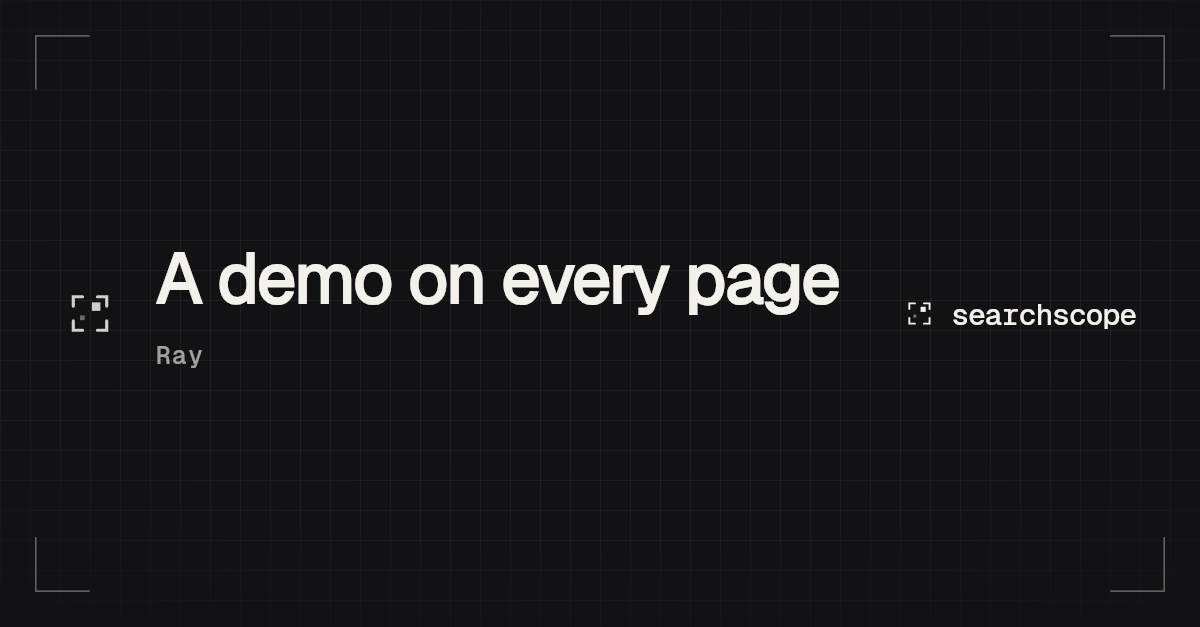
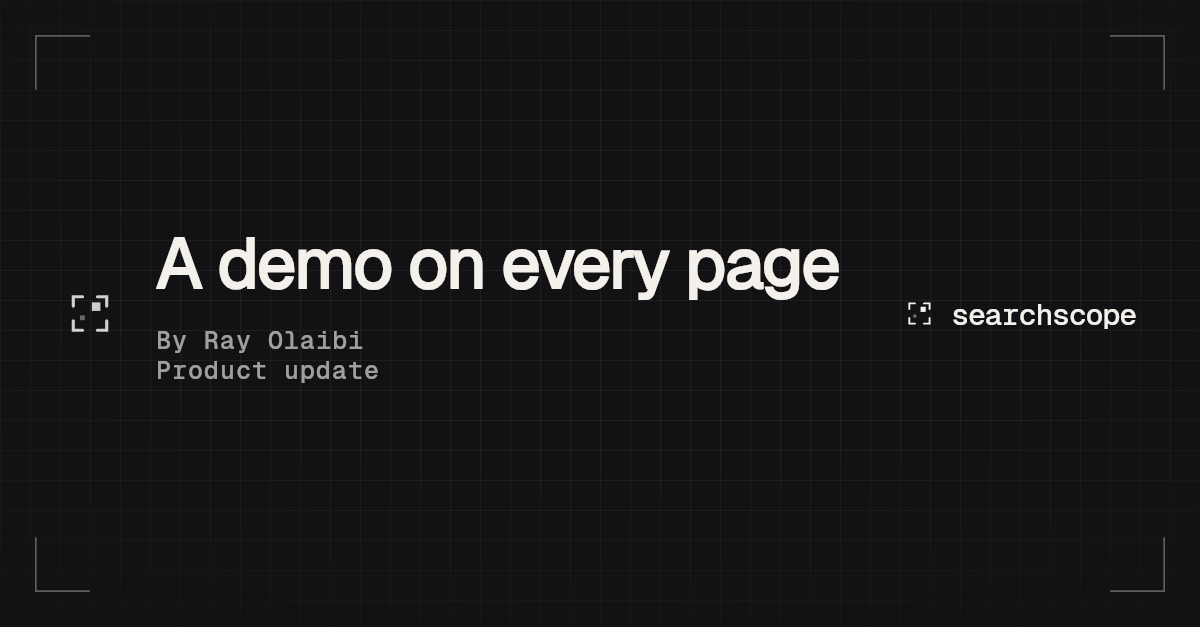
Category breadcrumbs, and link cards that say what the page is
Breadcrumb: the category page was the only blog page using a slash separator
and starting at Blog. Posts and author pages both read Searchscope > Blog > X
with an angle quote. Category pages now match.

Breadcrumb schema: every blog page had a BreadcrumbList that disagreed with
the trail on the page. A post showed Searchscope > Blog > Category and its
schema said Blog > Post Title, skipping the category and the home level. Two
breadcrumbs on one page is a structured-data error and the wrong one is the
one that gets read. crumb_ld now prepends home so no caller can forget it,
and posts emit the category rather than their own title.

Link cards: og-cards.json gains an optional kicker, a second meta line under
the byline, and every Product Updates post carries "Product update". Shared
into Slack these showed a headline and the word "Ray", which says nothing
about what you are about to open. The eight also had a bare "Ray" byline
while the five editorial cards said "By Ray Olaibi"; all nine now match.

Rules for both are in CLAUDE.md, along with the build order: a blog rebuild
resets og tags, so add-og-tags.py always runs after build-blog.py.

Changed region(s): [[0.1233, 0.3636, 0.7092, 0.5152], [0.1233, 0.5152, 0.3392, 0.6061]]

diff --git a/holding/blog/index.html b/holding/blog/index.html
@@ -727,7 +727,7 @@ j=d.createElement(s),dl=l!='dataLayer'?'&l='+l:'';j.async=true;j.src=
 </style>
 <script type="application/ld+json">{"@context":"https://schema.org","@type":"Organization","name":"Searchscope","url":"https://searchscope.io/","description":"The SEO and AI search intelligence platform."}</script>
 <script type="application/ld+json">{"@context":"https://schema.org","@type":"Blog","@id":"https://searchscope.io/blog/","name":"Searchscope Blog","description":"Writing on search systems, algorithm updates, AI search and search data, from the team that builds Searchscope.","url":"https://searchscope.io/blog/","publisher":{"@type":"Organization","name":"Searchscope","url":"https://searchscope.io/"},"blogPost":[{"@type":"BlogPosting","headline":"SEO is now an operating system","url":"https://searchscope.io/blog/seo-is-now-an-operating-system/","datePublished":"2026-06-20","author":{"@type":"Person","name":"Ray"}},{"@type":"BlogPosting","headline":"What AI Overviews change about visibility","url":"https://searchscope.io/blog/what-ai-overviews-change-about-visibility/","datePublished":"2026-06-12","author":{"@type":"Person","name":"Ray"}},{"@type":"BlogPosting","headline":"Cannibalization is a data problem","url":"https://searchscope.io/blog/cannibalization-is-a-data-problem/","datePublished":"2026-06-04","author":{"@type":"Person","name":"Ray"}},{"@type":"BlogPosting","headline":"Reading demand vs. your share","url":"https://searchscope.io/blog/reading-demand-vs-your-share/","datePublished":"2026-05-22","author":{"@type":"Person","name":"Ray"}},{"@type":"BlogPosting","headline":"The co-pilot model for search teams","url":"https://searchscope.io/blog/the-co-pilot-model-for-search-teams/","datePublished":"2026-05-10","author":{"@type":"Person","name":"Ray"}}]}</script>
-<script type="application/ld+json">{"@context":"https://schema.org","@type":"BreadcrumbList","itemListElement":[{"@type":"ListItem","position":1,"name":"Blog","item":"https://searchscope.io/blog/"}]}</script>
+<script type="application/ld+json">{"@context":"https://schema.org","@type":"BreadcrumbList","itemListElement":[{"@type":"ListItem","position":1,"name":"Searchscope","item":"https://searchscope.io/"},{"@type":"ListItem","position":2,"name":"Blog","item":"https://searchscope.io/blog/"}]}</script>
 </head>
 <body>
 <!-- Google Tag Manager (noscript) -->

diff --git a/holding/blog/category/product-updates/index.html b/holding/blog/category/product-updates/index.html
@@ -727,7 +727,7 @@ j=d.createElement(s),dl=l!='dataLayer'?'&l='+l:'';j.async=true;j.src=
 </style>
 <script type="application/ld+json">{"@context":"https://schema.org","@type":"Organization","name":"Searchscope","url":"https://searchscope.io/","description":"The SEO and AI search intelligence platform."}</script>
 <script type="application/ld+json">{"@context":"https://schema.org","@type":"CollectionPage","name":"Product Updates","description":"What's new in Searchscope. Features and changes, newest first: what shipped, when, and what it lets you do.","url":"https://searchscope.io/blog/category/product-updates/","isPartOf":{"@type":"Blog","@id":"https://searchscope.io/blog/"}}</script>
-<script type="application/ld+json">{"@context":"https://schema.org","@type":"BreadcrumbList","itemListElement":[{"@type":"ListItem","position":1,"name":"Blog","item":"https://searchscope.io/blog/"},{"@type":"ListItem","position":2,"name":"Product Updates","item":"https://searchscope.io/blog/category/product-updates/"}]}</script>
+<script type="application/ld+json">{"@context":"https://schema.org","@type":"BreadcrumbList","itemListElement":[{"@type":"ListItem","position":1,"name":"Searchscope","item":"https://searchscope.io/"},{"@type":"ListItem","position":2,"name":"Blog","item":"https://searchscope.io/blog/"},{"@type":"ListItem","position":3,"name":"Product Updates","item":"https://searchscope.io/blog/category/product-updates/"}]}</script>
 </head>
 <body>
 <!-- Google Tag Manager (noscript) -->
@@ -870,8 +870,10 @@ height="0" width="0" style="display:none;visibility:hidden"></iframe></noscript>
 <main>
   <section class="section">
     <div class="container">
-      <nav class="crumbs" aria-label="Breadcrumb">
-        <a href="/blog/">Blog</a><span aria-hidden="true">/</span><span>Product Updates</span>
+      <nav class="crumbs reveal" aria-label="Breadcrumb">
+        <a href="/">Searchscope</a><span class="crumbs__s" aria-hidden="true">&#8250;</span>
+        <a href="/blog/">Blog</a><span class="crumbs__s" aria-hidden="true">&#8250;</span>
+        <span>Product Updates</span>
       </nav>
       <div class="strip__head">
         <span class="eyebrow reveal">Product</span>

diff --git a/holding/blog/category/search-systems/index.html b/holding/blog/category/search-systems/index.html
@@ -727,7 +727,7 @@ j=d.createElement(s),dl=l!='dataLayer'?'&l='+l:'';j.async=true;j.src=
 </style>
 <script type="application/ld+json">{"@context":"https://schema.org","@type":"Organization","name":"Searchscope","url":"https://searchscope.io/","description":"The SEO and AI search intelligence platform."}</script>
 <script type="application/ld+json">{"@context":"https://schema.org","@type":"CollectionPage","name":"Search Systems","description":"Posts on Search Systems from the team that builds Searchscope.","url":"https://searchscope.io/blog/category/search-systems/","isPartOf":{"@type":"Blog","@id":"https://searchscope.io/blog/"}}</script>
-<script type="application/ld+json">{"@context":"https://schema.org","@type":"BreadcrumbList","itemListElement":[{"@type":"ListItem","position":1,"name":"Blog","item":"https://searchscope.io/blog/"},{"@type":"ListItem","position":2,"name":"Search Systems","item":"https://searchscope.io/blog/category/search-systems/"}]}</script>
+<script type="application/ld+json">{"@context":"https://schema.org","@type":"BreadcrumbList","itemListElement":[{"@type":"ListItem","position":1,"name":"Searchscope","item":"https://searchscope.io/"},{"@type":"ListItem","position":2,"name":"Blog","item":"https://searchscope.io/blog/"},{"@type":"ListItem","position":3,"name":"Search Systems","item":"https://searchscope.io/blog/category/search-systems/"}]}</script>
 </head>
 <body>
 <!-- Google Tag Manager (noscript) -->
@@ -870,8 +870,10 @@ height="0" width="0" style="display:none;visibility:hidden"></iframe></noscript>
 <main>
   <section class="section">
     <div class="container">
-      <nav class="crumbs" aria-label="Breadcrumb">
-        <a href="/blog/">Blog</a><span aria-hidden="true">/</span><span>Search Systems</span>
+      <nav class="crumbs reveal" aria-label="Breadcrumb">
+        <a href="/">Searchscope</a><span class="crumbs__s" aria-hidden="true">&#8250;</span>
+        <a href="/blog/">Blog</a><span class="crumbs__s" aria-hidden="true">&#8250;</span>
+        <span>Search Systems</span>
       </nav>
       <div class="strip__head">
         <span class="eyebrow reveal">Category</span>

diff --git a/holding/blog/category/search-data/index.html b/holding/blog/category/search-data/index.html
@@ -727,7 +727,7 @@ j=d.createElement(s),dl=l!='dataLayer'?'&l='+l:'';j.async=true;j.src=
 </style>
 <script type="application/ld+json">{"@context":"https://schema.org","@type":"Organization","name":"Searchscope","url":"https://searchscope.io/","description":"The SEO and AI search intelligence platform."}</script>
 <script type="application/ld+json">{"@context":"https://schema.org","@type":"CollectionPage","name":"Search Data","description":"Posts on Search Data from the team that builds Searchscope.","url":"https://searchscope.io/blog/category/search-data/","isPartOf":{"@type":"Blog","@id":"https://searchscope.io/blog/"}}</script>
-<script type="application/ld+json">{"@context":"https://schema.org","@type":"BreadcrumbList","itemListElement":[{"@type":"ListItem","position":1,"name":"Blog","item":"https://searchscope.io/blog/"},{"@type":"ListItem","position":2,"name":"Search Data","item":"https://searchscope.io/blog/category/search-data/"}]}</script>
+<script type="application/ld+json">{"@context":"https://schema.org","@type":"BreadcrumbList","itemListElement":[{"@type":"ListItem","position":1,"name":"Searchscope","item":"https://searchscope.io/"},{"@type":"ListItem","position":2,"name":"Blog","item":"https://searchscope.io/blog/"},{"@type":"ListItem","position":3,"name":"Search Data","item":"https://searchscope.io/blog/category/search-data/"}]}</script>
 </head>
 <body>
 <!-- Google Tag Manager (noscript) -->
@@ -870,8 +870,10 @@ height="0" width="0" style="display:none;visibility:hidden"></iframe></noscript>
 <main>
   <section class="section">
     <div class="container">
-      <nav class="crumbs" aria-label="Breadcrumb">
-        <a href="/blog/">Blog</a><span aria-hidden="true">/</span><span>Search Data</span>
+      <nav class="crumbs reveal" aria-label="Breadcrumb">
+        <a href="/">Searchscope</a><span class="crumbs__s" aria-hidden="true">&#8250;</span>
+        <a href="/blog/">Blog</a><span class="crumbs__s" aria-hidden="true">&#8250;</span>
+        <span>Search Data</span>
       </nav>
       <div class="strip__head">
         <span class="eyebrow reveal">Category</span>

diff --git a/holding/blog/category/ai-search/index.html b/holding/blog/category/ai-search/index.html
@@ -727,7 +727,7 @@ j=d.createElement(s),dl=l!='dataLayer'?'&l='+l:'';j.async=true;j.src=
 </style>
 <script type="application/ld+json">{"@context":"https://schema.org","@type":"Organization","name":"Searchscope","url":"https://searchscope.io/","description":"The SEO and AI search intelligence platform."}</script>
 <script type="application/ld+json">{"@context":"https://schema.org","@type":"CollectionPage","name":"AI Search","description":"Posts on AI Search from the team that builds Searchscope.","url":"https://searchscope.io/blog/category/ai-search/","isPartOf":{"@type":"Blog","@id":"https://searchscope.io/blog/"}}</script>
-<script type="application/ld+json">{"@context":"https://schema.org","@type":"BreadcrumbList","itemListElement":[{"@type":"ListItem","position":1,"name":"Blog","item":"https://searchscope.io/blog/"},{"@type":"ListItem","position":2,"name":"AI Search","item":"https://searchscope.io/blog/category/ai-search/"}]}</script>
+<script type="application/ld+json">{"@context":"https://schema.org","@type":"BreadcrumbList","itemListElement":[{"@type":"ListItem","position":1,"name":"Searchscope","item":"https://searchscope.io/"},{"@type":"ListItem","position":2,"name":"Blog","item":"https://searchscope.io/blog/"},{"@type":"ListItem","position":3,"name":"AI Search","item":"https://searchscope.io/blog/category/ai-search/"}]}</script>
 </head>
 <body>
 <!-- Google Tag Manager (noscript) -->
@@ -870,8 +870,10 @@ height="0" width="0" style="display:none;visibility:hidden"></iframe></noscript>
 <main>
   <section class="section">
     <div class="container">
-      <nav class="crumbs" aria-label="Breadcrumb">
-        <a href="/blog/">Blog</a><span aria-hidden="true">/</span><span>AI Search</span>
+      <nav class="crumbs reveal" aria-label="Breadcrumb">
+        <a href="/">Searchscope</a><span class="crumbs__s" aria-hidden="true">&#8250;</span>
+        <a href="/blog/">Blog</a><span class="crumbs__s" aria-hidden="true">&#8250;</span>
+        <span>AI Search</span>
       </nav>
       <div class="strip__head">
         <span class="eyebrow reveal">Category</span>

diff --git a/holding/blog/category/agency/index.html b/holding/blog/category/agency/index.html
@@ -727,7 +727,7 @@ j=d.createElement(s),dl=l!='dataLayer'?'&l='+l:'';j.async=true;j.src=
 </style>
 <script type="application/ld+json">{"@context":"https://schema.org","@type":"Organization","name":"Searchscope","url":"https://searchscope.io/","description":"The SEO and AI search intelligence platform."}</script>
 <script type="application/ld+json">{"@context":"https://schema.org","@type":"CollectionPage","name":"Agency","description":"Posts on Agency from the team that builds Searchscope.","url":"https://searchscope.io/blog/category/agency/","isPartOf":{"@type":"Blog","@id":"https://searchscope.io/blog/"}}</script>
-<script type="application/ld+json">{"@context":"https://schema.org","@type":"BreadcrumbList","itemListElement":[{"@type":"ListItem","position":1,"name":"Blog","item":"https://searchscope.io/blog/"},{"@type":"ListItem","position":2,"name":"Agency","item":"https://searchscope.io/blog/category/agency/"}]}</script>
+<script type="application/ld+json">{"@context":"https://schema.org","@type":"BreadcrumbList","itemListElement":[{"@type":"ListItem","position":1,"name":"Searchscope","item":"https://searchscope.io/"},{"@type":"ListItem","position":2,"name":"Blog","item":"https://searchscope.io/blog/"},{"@type":"ListItem","position":3,"name":"Agency","item":"https://searchscope.io/blog/category/agency/"}]}</script>
 </head>
 <body>
 <!-- Google Tag Manager (noscript) -->
@@ -870,8 +870,10 @@ height="0" width="0" style="display:none;visibility:hidden"></iframe></noscript>
 <main>
   <section class="section">
     <div class="container">
-      <nav class="crumbs" aria-label="Breadcrumb">
-        <a href="/blog/">Blog</a><span aria-hidden="true">/</span><span>Agency</span>
+      <nav class="crumbs reveal" aria-label="Breadcrumb">
+        <a href="/">Searchscope</a><span class="crumbs__s" aria-hidden="true">&#8250;</span>
+        <a href="/blog/">Blog</a><span class="crumbs__s" aria-hidden="true">&#8250;</span>
+        <span>Agency</span>
       </nav>
       <div class="strip__head">
         <span class="eyebrow reveal">Category</span>

diff --git a/holding/blog/what-ai-overviews-change-about-visibility/index.html b/holding/blog/what-ai-overviews-change-about-visibility/index.html
@@ -727,7 +727,7 @@ j=d.createElement(s),dl=l!='dataLayer'?'&l='+l:'';j.async=true;j.src=
 </style>
 <script type="application/ld+json">{"@context":"https://schema.org","@type":"Organization","name":"Searchscope","url":"https://searchscope.io/","description":"The SEO and AI search intelligence platform."}</script>
 <script type="application/ld+json">{"@context":"https://schema.org","@type":"BlogPosting","headline":"What AI Overviews change about visibility","description":"You can rank #1 and lose the click. You can be absent from the ten blue links and still be the source an AI quotes. Position was always a proxy; now it's a leaky one.","datePublished":"2026-06-12","dateModified":"2026-06-12","author":{"@type":"Person","name":"Ray","url":"https://searchscope.io/blog/author/ray/"},"publisher":{"@type":"Organization","name":"Searchscope","url":"https://searchscope.io/"},"keywords":"AI Search","articleSection":"AI Search","wordCount":482,"timeRequired":"PT2M","inLanguage":"en","mainEntityOfPage":{"@type":"WebPage","@id":"https://searchscope.io/blog/what-ai-overviews-change-about-visibility/"},"url":"https://searchscope.io/blog/what-ai-overviews-change-about-visibility/"}</script>
-<script type="application/ld+json">{"@context":"https://schema.org","@type":"BreadcrumbList","itemListElement":[{"@type":"ListItem","position":1,"name":"Blog","item":"https://searchscope.io/blog/"},{"@type":"ListItem","position":2,"name":"What AI Overviews change about visibility","item":"https://searchscope.io/blog/what-ai-overviews-change-about-visibility/"}]}</script>
+<script type="application/ld+json">{"@context":"https://schema.org","@type":"BreadcrumbList","itemListElement":[{"@type":"ListItem","position":1,"name":"Searchscope","item":"https://searchscope.io/"},{"@type":"ListItem","position":2,"name":"Blog","item":"https://searchscope.io/blog/"},{"@type":"ListItem","position":3,"name":"AI Search","item":"https://searchscope.io/blog/category/ai-search/"}]}</script>
 </head>
 <body>
 <!-- Google Tag Manager (noscript) -->

diff --git a/holding/blog/the-co-pilot-model-for-search-teams/index.html b/holding/blog/the-co-pilot-model-for-search-teams/index.html
@@ -727,7 +727,7 @@ j=d.createElement(s),dl=l!='dataLayer'?'&l='+l:'';j.async=true;j.src=
 </style>
 <script type="application/ld+json">{"@context":"https://schema.org","@type":"Organization","name":"Searchscope","url":"https://searchscope.io/","description":"The SEO and AI search intelligence platform."}</script>
 <script type="application/ld+json">{"@context":"https://schema.org","@type":"BlogPosting","headline":"The co-pilot model for search teams","description":"AI won't replace your search team, and a search team without AI is about to be outpaced. The model that wins is neither. It's a co-pilot. Here's what that actually means in practice.","datePublished":"2026-05-10","dateModified":"2026-05-10","author":{"@type":"Person","name":"Ray","url":"https://searchscope.io/blog/author/ray/"},"publisher":{"@type":"Organization","name":"Searchscope","url":"https://searchscope.io/"},"keywords":"Agency, Search Systems","articleSection":"Agency","wordCount":475,"timeRequired":"PT2M","inLanguage":"en","mainEntityOfPage":{"@type":"WebPage","@id":"https://searchscope.io/blog/the-co-pilot-model-for-search-teams/"},"url":"https://searchscope.io/blog/the-co-pilot-model-for-search-teams/"}</script>
-<script type="application/ld+json">{"@context":"https://schema.org","@type":"BreadcrumbList","itemListElement":[{"@type":"ListItem","position":1,"name":"Blog","item":"https://searchscope.io/blog/"},{"@type":"ListItem","position":2,"name":"The co-pilot model for search teams","item":"https://searchscope.io/blog/the-co-pilot-model-for-search-teams/"}]}</script>
+<script type="application/ld+json">{"@context":"https://schema.org","@type":"BreadcrumbList","itemListElement":[{"@type":"ListItem","position":1,"name":"Searchscope","item":"https://searchscope.io/"},{"@type":"ListItem","position":2,"name":"Blog","item":"https://searchscope.io/blog/"},{"@type":"ListItem","position":3,"name":"Agency","item":"https://searchscope.io/blog/category/agency/"}]}</script>
 </head>
 <body>
 <!-- Google Tag Manager (noscript) -->

diff --git a/holding/blog/cannibalization-is-a-data-problem/index.html b/holding/blog/cannibalization-is-a-data-problem/index.html
@@ -727,7 +727,7 @@ j=d.createElement(s),dl=l!='dataLayer'?'&l='+l:'';j.async=true;j.src=
 </style>
 <script type="application/ld+json">{"@context":"https://schema.org","@type":"Organization","name":"Searchscope","url":"https://searchscope.io/","description":"The SEO and AI search intelligence platform."}</script>
 <script type="application/ld+json">{"@context":"https://schema.org","@type":"BlogPosting","headline":"Cannibalization is a data problem","description":"Most cannibalization advice is just vibes (merge the pages that feel similar). But it's visible in the data, page by page, query by query. Here's how to actually find it.","datePublished":"2026-06-04","dateModified":"2026-06-04","author":{"@type":"Person","name":"Ray","url":"https://searchscope.io/blog/author/ray/"},"publisher":{"@type":"Organization","name":"Searchscope","url":"https://searchscope.io/"},"keywords":"Search Data","articleSection":"Search Data","wordCount":494,"timeRequired":"PT2M","inLanguage":"en","mainEntityOfPage":{"@type":"WebPage","@id":"https://searchscope.io/blog/cannibalization-is-a-data-problem/"},"url":"https://searchscope.io/blog/cannibalization-is-a-data-problem/"}</script>
-<script type="application/ld+json">{"@context":"https://schema.org","@type":"BreadcrumbList","itemListElement":[{"@type":"ListItem","position":1,"name":"Blog","item":"https://searchscope.io/blog/"},{"@type":"ListItem","position":2,"name":"Cannibalization is a data problem","item":"https://searchscope.io/blog/cannibalization-is-a-data-problem/"}]}</script>
+<script type="application/ld+json">{"@context":"https://schema.org","@type":"BreadcrumbList","itemListElement":[{"@type":"ListItem","position":1,"name":"Searchscope","item":"https://searchscope.io/"},{"@type":"ListItem","position":2,"name":"Blog","item":"https://searchscope.io/blog/"},{"@type":"ListItem","position":3,"name":"Search Data","item":"https://searchscope.io/blog/category/search-data/"}]}</script>
 </head>
 <body>
 <!-- Google Tag Manager (noscript) -->

diff --git a/holding/blog/reading-demand-vs-your-share/index.html b/holding/blog/reading-demand-vs-your-share/index.html
@@ -727,7 +727,7 @@ j=d.createElement(s),dl=l!='dataLayer'?'&l='+l:'';j.async=true;j.src=
 </style>
 <script type="application/ld+json">{"@context":"https://schema.org","@type":"Organization","name":"Searchscope","url":"https://searchscope.io/","description":"The SEO and AI search intelligence platform."}</script>
 <script type="application/ld+json">{"@context":"https://schema.org","@type":"BlogPosting","headline":"Reading demand vs. your share","description":"The single most useful view in search isn't rankings or traffic. It's market demand plotted against the share you actually capture. It shows you where the growth is hiding.","datePublished":"2026-05-22","dateModified":"2026-05-22","author":{"@type":"Person","name":"Ray","url":"https://searchscope.io/blog/author/ray/"},"publisher":{"@type":"Organization","name":"Searchscope","url":"https://searchscope.io/"},"keywords":"Search Data, Search Systems","articleSection":"Search Data","wordCount":459,"timeRequired":"PT2M","inLanguage":"en","mainEntityOfPage":{"@type":"WebPage","@id":"https://searchscope.io/blog/reading-demand-vs-your-share/"},"url":"https://searchscope.io/blog/reading-demand-vs-your-share/"}</script>
-<script type="application/ld+json">{"@context":"https://schema.org","@type":"BreadcrumbList","itemListElement":[{"@type":"ListItem","position":1,"name":"Blog","item":"https://searchscope.io/blog/"},{"@type":"ListItem","position":2,"name":"Reading demand vs. your share","item":"https://searchscope.io/blog/reading-demand-vs-your-share/"}]}</script>
+<script type="application/ld+json">{"@context":"https://schema.org","@type":"BreadcrumbList","itemListElement":[{"@type":"ListItem","position":1,"name":"Searchscope","item":"https://searchscope.io/"},{"@type":"ListItem","position":2,"name":"Blog","item":"https://searchscope.io/blog/"},{"@type":"ListItem","position":3,"name":"Search Data","item":"https://searchscope.io/blog/category/search-data/"}]}</script>
 </head>
 <body>
 <!-- Google Tag Manager (noscript) -->

diff --git a/holding/blog/seo-is-now-an-operating-system/index.html b/holding/blog/seo-is-now-an-operating-system/index.html
@@ -727,7 +727,7 @@ j=d.createElement(s),dl=l!='dataLayer'?'&l='+l:'';j.async=true;j.src=
 </style>
 <script type="application/ld+json">{"@context":"https://schema.org","@type":"Organization","name":"Searchscope","url":"https://searchscope.io/","description":"The SEO and AI search intelligence platform."}</script>
 <script type="application/ld+json">{"@context":"https://schema.org","@type":"BlogPosting","headline":"SEO is now an operating system","description":"For two decades SEO came in projects (audit, fix, wait). That model breaks the moment search starts changing faster than you can audit it. Here's the shift.","datePublished":"2026-06-20","dateModified":"2026-06-20","author":{"@type":"Person","name":"Ray","url":"https://searchscope.io/blog/author/ray/"},"publisher":{"@type":"Organization","name":"Searchscope","url":"https://searchscope.io/"},"keywords":"Search Systems","articleSection":"Search Systems","wordCount":504,"timeRequired":"PT3M","inLanguage":"en","mainEntityOfPage":{"@type":"WebPage","@id":"https://searchscope.io/blog/seo-is-now-an-operating-system/"},"url":"https://searchscope.io/blog/seo-is-now-an-operating-system/"}</script>
-<script type="application/ld+json">{"@context":"https://schema.org","@type":"BreadcrumbList","itemListElement":[{"@type":"ListItem","position":1,"name":"Blog","item":"https://searchscope.io/blog/"},{"@type":"ListItem","position":2,"name":"SEO is now an operating system","item":"https://searchscope.io/blog/seo-is-now-an-operating-system/"}]}</script>
+<script type="application/ld+json">{"@context":"https://schema.org","@type":"BreadcrumbList","itemListElement":[{"@type":"ListItem","position":1,"name":"Searchscope","item":"https://searchscope.io/"},{"@type":"ListItem","position":2,"name":"Blog","item":"https://searchscope.io/blog/"},{"@type":"ListItem","position":3,"name":"Search Systems","item":"https://searchscope.io/blog/category/search-systems/"}]}</script>
 </head>
 <body>
 <!-- Google Tag Manager (noscript) -->

diff --git a/holding/blog/brand-name-variants/index.html b/holding/blog/brand-name-variants/index.html
@@ -727,7 +727,7 @@ j=d.createElement(s),dl=l!='dataLayer'?'&l='+l:'';j.async=true;j.src=
 </style>
 <script type="application/ld+json">{"@context":"https://schema.org","@type":"Organization","name":"Searchscope","url":"https://searchscope.io/","description":"The SEO and AI search intelligence platform."}</script>
 <script type="application/ld+json">{"@context":"https://schema.org","@type":"BlogPosting","headline":"Names you weren't getting credit for","description":"AI engines don't always use your full company name. Searchscope now spots the variants your saved brand names miss, and offers them for approval with the evidence attached.","datePublished":"2026-08-22","dateModified":"2026-08-22","author":{"@type":"Person","name":"Ray","url":"https://searchscope.io/blog/author/ray/"},"publisher":{"@type":"Organization","name":"Searchscope","url":"https://searchscope.io/"},"keywords":"Product Updates","articleSection":"Product Updates","wordCount":170,"timeRequired":"PT1M","inLanguage":"en","mainEntityOfPage":{"@type":"WebPage","@id":"https://searchscope.io/blog/brand-name-variants/"},"url":"https://searchscope.io/blog/brand-name-variants/"}</script>
-<script type="application/ld+json">{"@context":"https://schema.org","@type":"BreadcrumbList","itemListElement":[{"@type":"ListItem","position":1,"name":"Blog","item":"https://searchscope.io/blog/"},{"@type":"ListItem","position":2,"name":"Names you weren't getting credit for","item":"https://searchscope.io/blog/brand-name-variants/"}]}</script>
+<script type="application/ld+json">{"@context":"https://schema.org","@type":"BreadcrumbList","itemListElement":[{"@type":"ListItem","position":1,"name":"Searchscope","item":"https://searchscope.io/"},{"@type":"ListItem","position":2,"name":"Blog","item":"https://searchscope.io/blog/"},{"@type":"ListItem","position":3,"name":"Product Updates","item":"https://searchscope.io/blog/category/product-updates/"}]}</script>
 </head>
 <body>
 <!-- Google Tag Manager (noscript) -->
